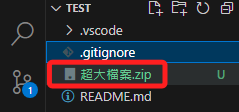
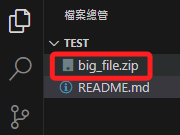
update

diff --git a/D01_準備工作/03_Git 版本控制/05_大型檔案.md b/D01_準備工作/03_Git 版本控制/05_大型檔案.md
@@ -82,19 +82,19 @@ _這裡模擬的是已經提交才發現是大型檔案的狀況_
 
 <br>
 
-1. 加入一個超大型檔案。
+1. 加入一個超大型檔案，這裡使用一個壓縮檔案 `big_file.zip`。
 
     ![](images/img_66.png)
 
 <br>
 
-2. 提交後一段時間會跳出警告視窗。
+2. 進行同步時，_等待了一段時間後_ 會跳出警告視窗。
 
     ![](images/img_67.png)
 
 <br>
 
-3. 開啟 Git 紀錄，其中紀錄了錯誤 `error`，顯示 `this exceeds GitHub's file size limit of 100.00 MB`。
+3. 點擊 `開啟 Git 紀錄`，其中紀錄了錯誤 `error`，顯示 `this exceeds GitHub's file size limit of 100.00 MB`，並且推送失敗 `failed to push ...`。
 
     ![](images/img_68.png)
 
@@ -112,13 +112,19 @@ _這裡模擬的是已經提交才發現是大型檔案的狀況_
 
 <br>
 
-6. 將指定的大型檔案添加到 `.gitignore`。
+6. 前步驟的指令會將資料夾回復到複製了大型檔案之前，所以資料夾中並無該檔案。
+
+    ![](images/img_77.png)
+
+<br>
+
+7. 將指定的大型檔案添加到 `.gitignore`。
 
     ![](images/img_71.png)
 
 <br>
 
-7. 將更新後的添加到 Git。
+8. 將更新後的添加到 Git。
 
     ```bash
     git add .gitignore
@@ -126,7 +132,7 @@ _這裡模擬的是已經提交才發現是大型檔案的狀況_
 
 <br>
 
-8. 提交。
+9. 提交。
 
     ```bash
     git commit -m "Update .gitignore"
@@ -134,7 +140,7 @@ _這裡模擬的是已經提交才發現是大型檔案的狀況_
 
 <br>
 
-9. 推送。
+10. 推送。
 
     ```bash
     git push origin main
